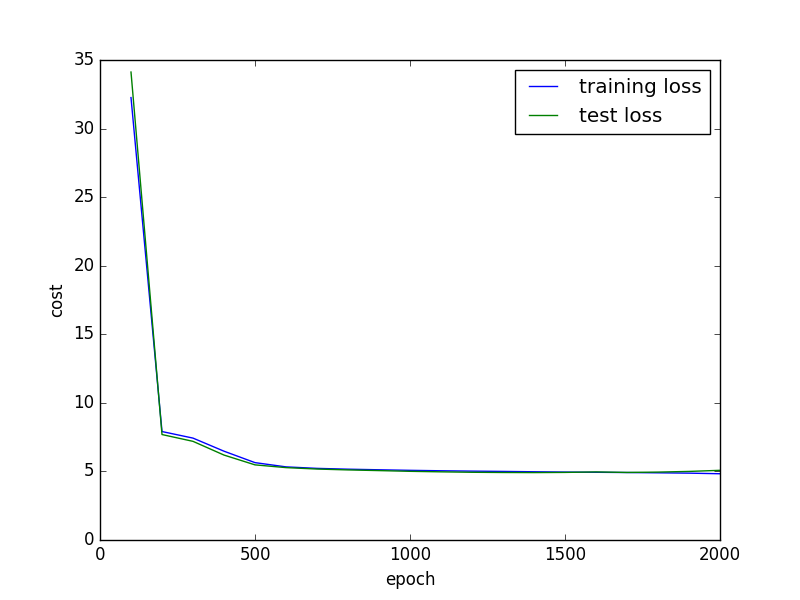
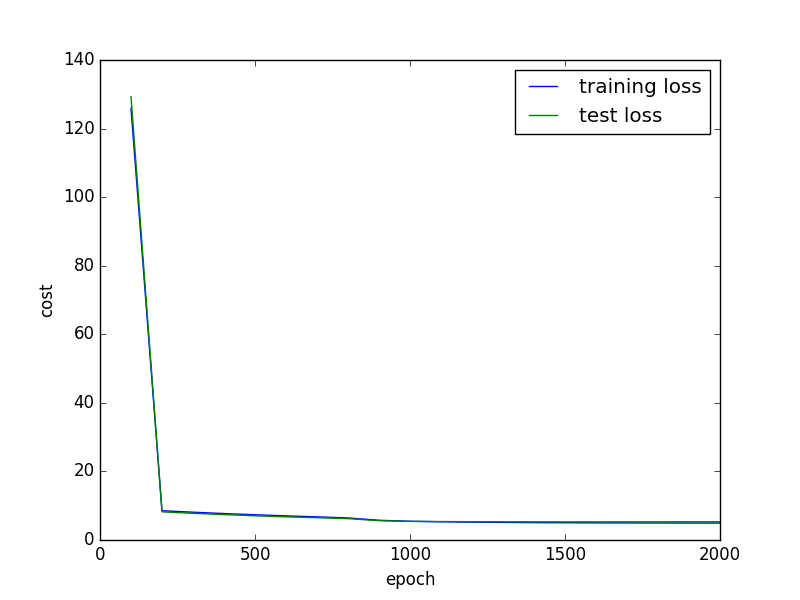
update regression nn for updated dataset format

diff --git a/nn/regression.py b/nn/regression.py
@@ -11,7 +11,7 @@ import csv
 def load_csv(filename):
     data = []
     with open(filename, 'rb') as csvfile:
-        reader = csv.reader(csvfile, delimiter=';')
+        reader = csv.reader(csvfile, delimiter=',')
         next(reader, None) # skip header
         for row in reader:
             data.append(row)
@@ -31,14 +31,14 @@ print "Training Set:", len(train_set), "items"
 
 
 # Sort test set by dependant variable to look nice on chart
-test_set.sort(key=lambda x: float(x[-1]))
+test_set.sort(key=lambda x: float(x[35]))
 
 
 # Separate inputs and outputs
 x_test = [ x[:35] for x in test_set ]
-y_test = [ [float(x[-1])] for x in test_set ]
+y_test = [ [float(x[35])] for x in test_set ]
 x_train = [ x[:35] for x in train_set ]
-y_train = [ [float(x[-1])] for x in train_set ]
+y_train = [ [float(x[35])] for x in train_set ]
 
 
 # Preprocess dataset
@@ -171,9 +171,9 @@ print "Absolute Loss Difference: ", round(abs(test_stats['loss'] - train_stats['
 
 
 # Sort train set by dependant variable to look nice on chart
-train_set.sort(key=lambda x_: float(x_[-1]))
+train_set.sort(key=lambda x_: float(x_[35]))
 x_train = [ x_[:35] for x_ in train_set ]
-y_train = [ [float(x_[-1])] for x_ in train_set ]
+y_train = [ [float(x_[35])] for x_ in train_set ]
 
 
 
